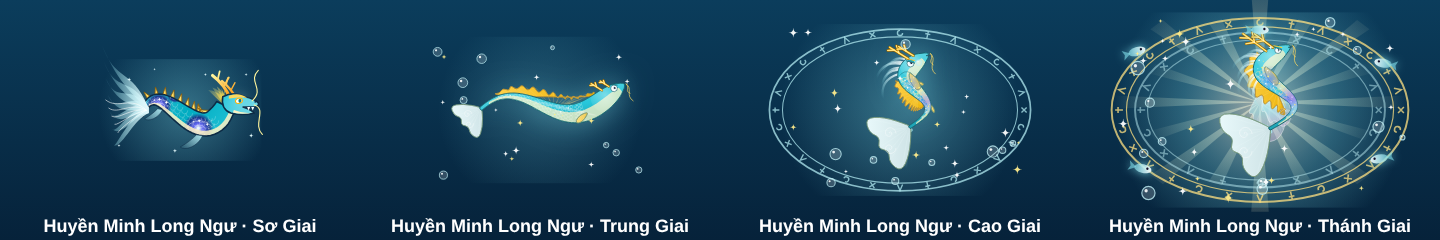
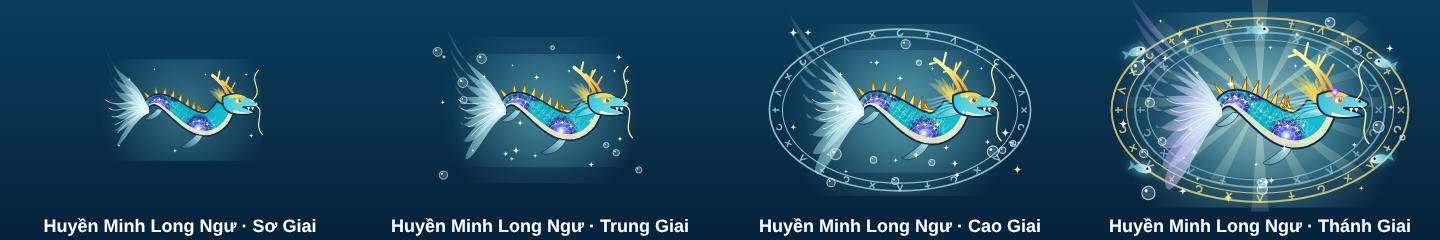
v0.33.1: nút câu cá to hơn + Túi đồ; chọn tất cả trừ Boss; Huyền Minh thanh thoát hơn
Claude-Session: https://claude.ai/code/session_016ef3etzcgqXcHsmUykJPfu

diff --git a/apps/game-client/src/art/MythicArt.ts b/apps/game-client/src/art/MythicArt.ts
@@ -38,7 +38,7 @@ function star(ctx: CanvasRenderingContext2D, x: number, y: number, r: number, co
 function drawHuyenMinhLongNgu(ctx: CanvasRenderingContext2D, stage = 1) {
   // gk = 0..3 theo giai: thân to hơn, vảy rõ, bờm dài, sừng lớn, mắt dữ, đuôi lụa dài, gai lưng cao
   const gk = Math.max(0, Math.min(3, stage - 1));
-  const fit = [1, 0.88, 0.78, 0.7][gk]!;
+  const fit = [1, 0.92, 0.85, 0.8][gk]!;
   ctx.save();
   ctx.translate(176, 112);
   ctx.scale(fit, fit);
@@ -68,7 +68,7 @@ function drawHuyenMinhLongNgu(ctx: CanvasRenderingContext2D, stage = 1) {
     const dy = q.y - r.y;
     const len = Math.hypot(dx, dy) || 1;
     // thân thon ở đuôi, dày dần về cổ
-    const w = (3 + 20 * Math.sin(Math.min(1, t * 1.15) * Math.PI * 0.5) - (t > 0.92 ? (t - 0.92) * 40 : 0)) * (1 + 0.14 * gk);
+    const w = (3 + 20 * Math.sin(Math.min(1, t * 1.15) * Math.PI * 0.5) - (t > 0.92 ? (t - 0.92) * 40 : 0)) * (1 + 0.07 * gk);
     // pháp tuyến hướng LÊN (phía lưng)
     pts.push({ p, n: { x: dy / len, y: -dx / len }, w });
   }
@@ -79,7 +79,7 @@ function drawHuyenMinhLongNgu(ctx: CanvasRenderingContext2D, stage = 1) {
   for (let i = 4; i < N - 2; i += 3) {
     const { p, n, w } = pts[i]!;
     const back = pts[Math.max(0, i - 2)]!.p;
-    const sp = 14 * (1 + 0.4 * gk) * (gk >= 2 ? 1 + 0.25 * Math.sin((i / N) * Math.PI) : 1);
+    const sp = 14 * (1 + 0.18 * gk);
     const tip = { x: p.x + n.x * (w + sp) + (back.x - p.x) * 1.2, y: p.y + n.y * (w + sp) + (back.y - p.y) * 1.2 };
     const g = ctx.createLinearGradient(p.x, p.y, tip.x, tip.y);
     g.addColorStop(0, "#ffb300");
@@ -166,13 +166,14 @@ function drawHuyenMinhLongNgu(ctx: CanvasRenderingContext2D, stage = 1) {
   if (gk >= 1) {
     ctx.save();
     ctx.clip(body);
-    ctx.strokeStyle = gk >= 2 ? "rgba(255,224,130,0.9)" : "rgba(255,255,255,0.55)";
-    ctx.lineWidth = gk >= 2 ? 1.8 : 1.4;
-    for (let i = 3; i < N - 3; i += gk >= 2 ? 1 : 2) {
+    // vảy ánh nhẹ (chỉ nửa lưng) – để lộ dải ngân hà trên thân
+    ctx.strokeStyle = gk >= 2 ? "rgba(255,248,200,0.45)" : "rgba(224,247,250,0.35)";
+    ctx.lineWidth = 1.1;
+    for (let i = 4; i < N - 4; i += 2) {
       const { p, n, w } = pts[i]!;
       const ang = Math.atan2(-n.x, n.y);
-      for (let j = -2; j <= 2; j++) {
-        const off = (j + (i % 2 ? 0.5 : 0)) * w * 0.38;
+      for (let j = 0; j <= 2; j++) {
+        const off = (j + (i % 4 ? 0.5 : 0)) * w * 0.3;
         ctx.beginPath();
         ctx.arc(p.x + n.x * off, p.y + n.y * off, w * 0.26, ang - Math.PI / 2 + Math.PI, ang + Math.PI / 2 + Math.PI);
         ctx.stroke();
@@ -187,8 +188,8 @@ function drawHuyenMinhLongNgu(ctx: CanvasRenderingContext2D, stage = 1) {
   const t0 = pts[0]!.p;
   const t3 = pts[4]!.p;
   const tail = { x: (t0.x + t3.x) / 2 + 4, y: (t0.y + t3.y) / 2 };
-  const strands = 7 + gk * 2;
-  const tl = 1 + 0.35 * gk;
+  const strands = 7 + gk;
+  const tl = 1 + 0.22 * gk;
   for (let k = 0; k < strands; k++) {
     const g = ctx.createLinearGradient(tail.x, tail.y, tail.x - 90 * tl, tail.y);
     g.addColorStop(0, "rgba(224,247,250,0.95)");
@@ -233,29 +234,30 @@ function drawHuyenMinhLongNgu(ctx: CanvasRenderingContext2D, stage = 1) {
   // --- đầu rồng
   const H = { x: 262, y: 88 };
   // bờm vàng (lửa) sau đầu – dài & dày dần theo giai
-  const mk = 1 + 0.45 * gk;
-  if (gk >= 2) {
+  const mk = 1 + 0.15 * gk;
+  if (gk >= 1) {
     // Cao Giai+: bờm tóc lụa trắng-xanh bay dài sau gáy
-    for (let k = 0; k < 6 + gk * 2; k++) {
-      const a2 = -2.4 + k * 0.22;
-      const g = ctx.createLinearGradient(H.x, H.y, H.x - 70 * mk, H.y);
-      g.addColorStop(0, "rgba(255,255,255,0.95)");
-      g.addColorStop(1, "rgba(128,222,234,0)");
+    // bờm lụa mềm bay về sau (dài dần theo giai)
+    const ml = 40 + 18 * gk;
+    for (let k = 0; k < 3 + gk; k++) {
+      const g = ctx.createLinearGradient(H.x, H.y, H.x - ml, H.y);
+      g.addColorStop(0, "rgba(255,255,255,0.8)");
+      g.addColorStop(1, "rgba(178,235,242,0)");
       ctx.strokeStyle = g;
-      ctx.lineWidth = 5;
+      ctx.lineWidth = 3;
       ctx.beginPath();
-      ctx.moveTo(H.x - 8, H.y - 6);
-      ctx.quadraticCurveTo(H.x - 30 * mk, H.y + Math.sin(a2) * 40, H.x - 60 * mk + Math.cos(a2) * 10, H.y + Math.sin(a2) * 30 * mk + 20);
+      ctx.moveTo(H.x - 8, H.y - 8 + k * 4);
+      ctx.bezierCurveTo(H.x - ml * 0.4, H.y - 24 + k * 6, H.x - ml * 0.7, H.y + 4 + k * 5, H.x - ml, H.y - 10 + k * 9);
       ctx.stroke();
     }
   }
-  for (let k = 0; k < 6 + gk * 2; k++) {
+  for (let k = 0; k < 6; k++) {
     const g = ctx.createLinearGradient(H.x, H.y, H.x - 40 * mk, H.y - 30 * mk);
     g.addColorStop(0, "#ffca28");
     g.addColorStop(1, "rgba(255,241,118,0.2)");
     ctx.fillStyle = g;
     ctx.beginPath();
-    const a = -2.2 + k * (1.9 / (6 + gk * 2));
+    const a = -2.2 + k * 0.32;
     ctx.moveTo(H.x - 6, H.y - 4);
     ctx.quadraticCurveTo(H.x - 24 * mk + Math.cos(a) * 8, H.y - 6 + Math.sin(a) * 26 * mk, H.x - 30 * mk + Math.cos(a) * 28 * mk, H.y + Math.sin(a) * 34 * mk);
     ctx.quadraticCurveTo(H.x - 16, H.y + 4, H.x - 4, H.y + 8);
@@ -263,60 +265,55 @@ function drawHuyenMinhLongNgu(ctx: CanvasRenderingContext2D, stage = 1) {
     ctx.fill();
   }
   // sừng vàng phân nhánh
-  const hornK = [1, 1.3, 1.65, 2][gk]!;
+  const hornK = [1, 1.15, 1.3, 1.45][gk]!;
   for (const [dx, sc0] of [[-4, 1], [8, 0.8]] as const) {
     const sc = sc0 * hornK;
     const g = ctx.createLinearGradient(H.x, H.y - 10, H.x - 30, H.y - 60);
     g.addColorStop(0, "#ff8f00");
     g.addColorStop(1, "#fff59d");
     ctx.strokeStyle = g;
-    ctx.lineWidth = 6 * sc;
+    ctx.lineWidth = 6 * sc0;
     ctx.beginPath();
     ctx.moveTo(H.x + dx, H.y - 12);
     ctx.quadraticCurveTo(H.x + dx - 10, H.y - 38 * sc, H.x + dx - 34 * sc, H.y - 56 * sc);
     ctx.stroke();
-    ctx.lineWidth = 3.5 * sc;
+    ctx.lineWidth = 3.5 * sc0;
     ctx.beginPath();
     ctx.moveTo(H.x + dx - 12 * sc, H.y - 34 * sc);
     ctx.lineTo(H.x + dx - 2, H.y - 52 * sc);
     ctx.moveTo(H.x + dx - 24 * sc, H.y - 47 * sc);
     ctx.lineTo(H.x + dx - 20 * sc, H.y - 64 * sc);
     if (gk >= 2) {
-      // nhánh sừng thêm
+      // thêm 1 nhánh sừng thanh mảnh
       ctx.moveTo(H.x + dx - 30 * sc, H.y - 53 * sc);
-      ctx.lineTo(H.x + dx - 44 * sc, H.y - 52 * sc);
-      ctx.moveTo(H.x + dx - 6 * sc, H.y - 24 * sc);
-      ctx.lineTo(H.x + dx + 6 * sc, H.y - 34 * sc);
+      ctx.lineTo(H.x + dx - 40 * sc, H.y - 50 * sc);
     }
     ctx.stroke();
   }
   // vây má nhọn sau hàm (Trung Giai+) – đầu trông sắc hơn
   if (gk >= 1) {
-    const cl = 1 + 0.35 * gk;
-    for (const [dy, sz] of [[4, 1], [14, 0.8]] as const) {
-      const g = ctx.createLinearGradient(H.x - 10, H.y + dy, H.x - 40 * cl, H.y + dy + 14);
-      g.addColorStop(0, "#ffd54f");
-      g.addColorStop(1, "rgba(255,241,118,0.3)");
-      ctx.fillStyle = g;
-      ctx.strokeStyle = "#8d5a00";
-      ctx.lineWidth = 1.4;
-      ctx.beginPath();
-      ctx.moveTo(H.x - 6, H.y + dy - 4);
-      ctx.lineTo(H.x - 34 * cl * sz, H.y + dy + 2);
-      ctx.lineTo(H.x - 20 * cl * sz, H.y + dy + 6);
-      ctx.lineTo(H.x - 40 * cl * sz, H.y + dy + 14);
-      ctx.lineTo(H.x - 4, H.y + dy + 8);
-      ctx.closePath();
-      ctx.fill();
-      ctx.stroke();
-    }
+    // vây má trong suốt mềm mại
+    const cl = 1 + 0.15 * gk;
+    const g = ctx.createLinearGradient(H.x - 6, H.y + 8, H.x - 36 * cl, H.y + 22);
+    g.addColorStop(0, "rgba(224,247,250,0.9)");
+    g.addColorStop(1, "rgba(128,222,234,0.15)");
+    ctx.fillStyle = g;
+    ctx.strokeStyle = "rgba(13,43,69,0.5)";
+    ctx.lineWidth = 1.2;
+    ctx.beginPath();
+    ctx.moveTo(H.x - 4, H.y + 6);
+    ctx.bezierCurveTo(H.x - 16 * cl, H.y + 4, H.x - 30 * cl, H.y + 12, H.x - 36 * cl, H.y + 24);
+    ctx.bezierCurveTo(H.x - 22 * cl, H.y + 22, H.x - 12, H.y + 18, H.x - 2, H.y + 14);
+    ctx.closePath();
+    ctx.fill();
+    ctx.stroke();
   }
   // đầu + mõm: mõm dài & nhọn dần theo giai, trán góc cạnh
-  const sn = 1 + 0.16 * gk;
+  const sn = 1 + 0.04 * gk;
   const head = new Path2D();
   head.moveTo(H.x - 18, H.y - 14);
-  head.quadraticCurveTo(H.x + 4, H.y - 26 - gk * 2, H.x + 26, H.y - 14 - gk);
-  head.quadraticCurveTo(H.x + 44 * sn, H.y - 10, H.x + 54 * sn + gk * 4, H.y - 3 + gk);
+  head.quadraticCurveTo(H.x + 4, H.y - 26, H.x + 26, H.y - 14);
+  head.quadraticCurveTo(H.x + 44 * sn, H.y - 10, H.x + 52 * sn, H.y - 2);
   head.quadraticCurveTo(H.x + 54 * sn, H.y + 4, H.x + 46 * sn, H.y + 6);
   head.lineTo(H.x + 22, H.y + 6);
   head.quadraticCurveTo(H.x + 40 * sn, H.y + 12, H.x + 46 * sn, H.y + 18);
@@ -341,11 +338,11 @@ function drawHuyenMinhLongNgu(ctx: CanvasRenderingContext2D, stage = 1) {
   ctx.fill();
   ctx.fillStyle = "#ffffff";
   // nanh dài dần, thêm nanh theo giai
-  const fangs = gk >= 2 ? [H.x + 24, H.x + 32, H.x + 40] : [H.x + 30, H.x + 38];
+  const fangs = [H.x + 30, H.x + 38];
   for (const x of fangs) {
     ctx.beginPath();
     ctx.moveTo(x, H.y + 6);
-    ctx.lineTo(x + 3, H.y + 13 + gk * 2);
+    ctx.lineTo(x + 3, H.y + 13);
     ctx.lineTo(x + 6, H.y + 6);
     ctx.fill();
   }
@@ -358,29 +355,29 @@ function drawHuyenMinhLongNgu(ctx: CanvasRenderingContext2D, stage = 1) {
   ctx.closePath();
   ctx.fill();
   // mắt phát sáng – Trung Giai mống vàng, Cao Giai đồng tử dọc + mày xếch, Thánh Giai rực sáng
-  ctx.shadowColor = gk >= 2 ? "#ffd54f" : "#e0f7fa";
-  ctx.shadowBlur = 12 + gk * 6;
-  ctx.fillStyle = gk >= 1 ? "#fff59d" : "#ffffff";
+  ctx.shadowColor = gk >= 3 ? "#ea80fc" : "#e0f7fa";
+  ctx.shadowBlur = 12 + gk * 3;
+  ctx.fillStyle = "#ffffff";
   ctx.beginPath();
-  ctx.ellipse(H.x + 14, H.y - 6, 7, gk >= 2 ? 4 : 5, -0.2, 0, Math.PI * 2);
+  ctx.ellipse(H.x + 14, H.y - 6, 7, 5, -0.2, 0, Math.PI * 2);
   ctx.fill();
   ctx.shadowBlur = 0;
-  ctx.fillStyle = gk >= 1 ? "#e65100" : "#00838f";
+  // mống mắt: ngọc lam → lam ánh tím (Cao Giai) → tím ngân hà (Thánh Giai)
+  ctx.fillStyle = ["#00838f", "#00838f", "#3949ab", "#7c4dff"][gk]!;
   ctx.beginPath();
-  ctx.ellipse(H.x + 16, H.y - 6, gk >= 2 ? 1.4 : 3, 4, 0, 0, Math.PI * 2);
+  ctx.ellipse(H.x + 16, H.y - 6, 3, 4, 0, 0, Math.PI * 2);
   ctx.fill();
-  if (gk >= 1) {
-    // gờ mày xếch có gai (Trung Giai: gờ; Cao Giai+: gai mày nhọn vểnh ra sau)
-    ctx.fillStyle = "#ffb300";
-    ctx.strokeStyle = "#8d5a00";
-    ctx.lineWidth = 1.2;
+  ctx.fillStyle = "#ffffff";
+  ctx.beginPath();
+  ctx.arc(H.x + 17, H.y - 8, 1.2, 0, Math.PI * 2);
+  ctx.fill();
+  if (gk >= 2) {
+    // nét mày vàng mảnh, thanh tú
+    ctx.strokeStyle = "#ffd54f";
+    ctx.lineWidth = 2;
     ctx.beginPath();
-    ctx.moveTo(H.x + 26, H.y - 9);
-    ctx.lineTo(H.x + 4, H.y - 16);
-    ctx.lineTo(H.x - 6 - gk * 6, H.y - 22 - gk * 4);
-    ctx.lineTo(H.x + 6, H.y - 12);
-    ctx.closePath();
-    ctx.fill();
+    ctx.moveTo(H.x + 4, H.y - 14);
+    ctx.quadraticCurveTo(H.x + 14, H.y - 16, H.x + 24, H.y - 11);
     ctx.stroke();
   }
   ctx.strokeStyle = "#ffb300";
@@ -407,7 +404,7 @@ function drawHuyenMinhLongNgu(ctx: CanvasRenderingContext2D, stage = 1) {
   for (const [x, y, r] of [[60, 40, 4], [300, 150, 5], [210, 30, 3], [40, 170, 3], [290, 30, 3], [150, 180, 4], [110, 20, 2.5]] as const) star(ctx, x, y, r, "#e0f7fa");
   if (gk >= 3) {
     // Thánh Giai: ngọc thần trên trán
-    const jg = ctx.createRadialGradient(H.x + 8, H.y - 18, 1, H.x + 8, H.y - 18, 8);
+    const jg = ctx.createRadialGradient(H.x + 8, H.y - 18, 1, H.x + 8, H.y - 18, 6);
     jg.addColorStop(0, "#ffffff");
     jg.addColorStop(0.5, "#ea80fc");
     jg.addColorStop(1, "#7c4dff");

diff --git a/apps/game-client/src/scenes/FishingScene.ts b/apps/game-client/src/scenes/FishingScene.ts
@@ -188,18 +188,28 @@ export class FishingScene extends Phaser.Scene {
 
     // UI cố định
     const top = this.add.graphics();
-    top.fillStyle(0x071a33, 0.7).fillRoundedRect(8, 8, 420, 60, 16);
-    new Button(this, 60, 38, 92, 46, "← Về", { color: COLORS.blue, fontSize: 20, onClick: () => this.leave() });
-    txt(this, 116, 38, this.zone.name, 24, { color: COLORS.textGold }).setOrigin(0, 0.5);
+    top.fillStyle(0x071a33, 0.7).fillRoundedRect(8, 8, 410, 76, 18);
+    // nút to cho dễ bấm trên điện thoại
+    new Button(this, 76, 46, 128, 66, "← Về", { color: COLORS.blue, fontSize: 26, onClick: () => this.leave() }).setDepth(45);
+    txt(this, 150, 46, this.zone.name, 22, { color: COLORS.textGold, wrap: 260 }).setOrigin(0, 0.5);
     const rod = ROD_BY_ID.get(s.selectedRodId)!;
-    txt(this, 16, 80, `${char.name} · ${rod.name}`, 16, { weight: "700", color: COLORS.textDim });
-    this.usesT = txt(this, 330, 80, "", 16, { weight: "700", color: "#b2ebf2" }).setDepth(50);
+    txt(this, 16, 98, `${char.name} · ${rod.name}`, 16, { weight: "700", color: COLORS.textDim });
+    this.usesT = txt(this, 330, 98, "", 16, { weight: "700", color: "#b2ebf2" }).setDepth(50);
     this.refreshUses();
-    this.huntLabel = txt(this, 16, 104, "", 18, { color: "#ff8a80" });
+    // Túi đồ: xem / bán cá ngay mà không rời khu câu (Về từ Kho Cá quay lại đây)
+    new Button(this, 1186, 46, 168, 66, "🎒 Túi đồ", {
+      color: COLORS.orange,
+      fontSize: 24,
+      onClick: () => {
+        if (this.session) return toast(this, "Đang câu – hãy câu xong rồi mở túi đồ");
+        goTo(this, "Inventory", { back: { scene: "Fishing", data: { zoneId: this.zone.id } } });
+      },
+    }).setDepth(45);
+    this.huntLabel = txt(this, 16, 122, "", 18, { color: "#ff8a80" });
     this.refreshHuntLabel();
 
     this.hint = txt(this, 640, 640, "", 30, { align: "center" }).setOrigin(0.5).setDepth(50);
-    this.eventLabel = txt(this, 16, 132, "", 18, { color: "#ffe082" }).setDepth(50);
+    this.eventLabel = txt(this, 16, 148, "", 18, { color: "#ffe082" }).setDepth(50);
     this.castEvent = null;
     this.castEventLeft = 0;
     this.alertT = txt(this, 640, 220, "", 56, { align: "center", stroke: 10 }).setOrigin(0.5).setDepth(60).setAlpha(0);
@@ -217,7 +227,7 @@ export class FishingScene extends Phaser.Scene {
     }).start();
     this.toIdle();
     this.auto = false;
-    this.autoBtn = new Button(this, 540, 38, 200, 46, "", { color: COLORS.purple, fontSize: 18, onClick: () => this.toggleAuto() }).setDepth(45);
+    this.autoBtn = new Button(this, 560, 46, 250, 66, "", { color: COLORS.purple, fontSize: 23, onClick: () => this.toggleAuto() }).setDepth(45);
     this.refreshAutoBtn();
 
     const onLevel = (lvl: number) => {

diff --git a/apps/game-client/src/scenes/InventoryScene.ts b/apps/game-client/src/scenes/InventoryScene.ts
@@ -41,8 +41,12 @@ export class InventoryScene extends Phaser.Scene {
     super("Inventory");
   }
 
-  init(data: { tab?: "bag" | "collection" }) {
+  /** Mở từ màn câu cá → bấm Về quay lại đúng khu câu. */
+  private back: { scene: string; data?: object } = { scene: "Hub" };
+
+  init(data: { tab?: "bag" | "collection"; back?: { scene: string; data?: object } }) {
     this.tab = data.tab ?? "bag";
+    this.back = data.back ?? { scene: "Hub" };
     this.selectMode = false;
     this.picked = new Set();
     this.confirmArmed = null;
@@ -54,7 +58,7 @@ export class InventoryScene extends Phaser.Scene {
     this.input.enabled = true;
     fadeIn(this);
     menuBackdrop(this);
-    new TopBar(this, { title: "Kho Cá", onBack: () => goTo(this, "Hub") });
+    new TopBar(this, { title: "Kho Cá", onBack: () => goTo(this, this.back.scene, this.back.data) });
     this.tabBtns = [
       new Button(this, 110, 116, 190, 50, "🐟 Kho Cá", { color: COLORS.blue, fontSize: 22, onClick: () => this.switchTab("bag") }),
       new Button(this, 310, 116, 190, 50, "📖 Bộ Sưu Tập", { color: COLORS.blue, fontSize: 22, onClick: () => this.switchTab("collection") }),
@@ -229,6 +233,18 @@ export class InventoryScene extends Phaser.Scene {
       all.filter((o) => !o.locked && FISH_BY_ID.get(o.fishId)!.rarity === "common").forEach((o) => this.picked.add(o.uid)),
     );
     quick(1154, 402, "Bỏ chọn hết", () => this.picked.clear());
+    // chọn tất cả TRỪ cá Boss & Thần Thoại (giữ lại cá quý nhất)
+    d.add(
+      new Button(this, 1058, 458, 378, 46, "Chọn tất cả trừ Boss trở lên", {
+        color: COLORS.orange,
+        fontSize: 17,
+        onClick: () => {
+          this.confirmArmed = null;
+          all.filter((o) => !o.locked && !["boss", "mythic"].includes(FISH_BY_ID.get(o.fishId)!.rarity)).forEach((o) => this.picked.add(o.uid));
+          this.render();
+        },
+      }),
+    );
     const act = (kind: "sell" | "decompose") => {
       const uids = [...this.picked];
       if (!uids.length) return toast(this, "Hãy chọn ít nhất 1 con cá");

diff --git a/apps/game-client/src/ui/fishingChat.ts b/apps/game-client/src/ui/fishingChat.ts
@@ -37,7 +37,7 @@ export class FishingChat {
 
   start() {
     // nút luôn hiện; chưa kết nối tài khoản thì bấm vào sẽ báo lý do
-    this.btn = new Button(this.scene, 740, 38, 150, 46, "💬 Chat", { color: COLORS.blue, fontSize: 18, onClick: () => this.toggle() }).setDepth(45);
+    this.btn = new Button(this.scene, 828, 46, 200, 66, "💬 Chat", { color: COLORS.blue, fontSize: 24, onClick: () => this.toggle() }).setDepth(45);
     if (!GameState.online) return;
     void this.poll();
     this.timer = window.setInterval(() => void this.poll(), POLL_MS);

diff --git a/apps/game-client/src/scenes/HubScene.ts b/apps/game-client/src/scenes/HubScene.ts
@@ -347,6 +347,6 @@ export class HubScene extends Phaser.Scene {
         },
       }),
     );
-    m.root.add(txt(this, m.x + 40, m.y + 460, `Mã người chơi: ${s.playerId}\nPhiên bản 0.33.0 · Giai đoạn 2–5`, 16, { weight: "500", color: COLORS.textDim }));
+    m.root.add(txt(this, m.x + 40, m.y + 460, `Mã người chơi: ${s.playerId}\nPhiên bản 0.33.1 · Giai đoạn 2–5`, 16, { weight: "500", color: COLORS.textDim }));
   }
 }

diff --git a/CHANGELOG.md b/CHANGELOG.md
@@ -1,5 +1,11 @@
 # Changelog
 
+## [0.33.1] – 2026-11-22 – Nút câu cá to hơn, Túi đồ, chọn tất cả trừ Boss
+### Thay đổi
+- Màn câu cá: nút **← Về / Câu tự động / Chat** to hơn (cao 66px, chữ 23–26) cho dễ bấm trên điện thoại; thêm nút **🎒 Túi đồ** (mở Kho Cá, bấm Về quay lại đúng khu đang câu; đang kéo cá thì báo câu xong trước).
+- Kho Cá → Chọn nhiều: thêm **"Chọn tất cả trừ Boss trở lên"** (chọn mọi cá không khoá trừ Boss & Thần Thoại). E2E `tests/e2e/inventory-select.cjs`.
+- Huyền Minh Long Ngư vẽ lại thanh thoát hợp tên: vảy chỉ ánh nhẹ để lộ dải ngân hà, sừng mảnh, mõm giữ dáng tròn, bờm lụa mềm, vây má trong suốt, mày vàng mảnh, mắt ngọc lam → tím ngân hà theo giai.
+
 ## [0.33.0] – 2026-11-22 – Tiến hoá giai đoạn: giữ dáng gốc, mỗi loài một bộ chi tiết riêng
 ### Thay đổi
 - Bỏ kiểu biến mọi loài thành cùng một khuôn (rồng cuộn / cầu gai). Nay **mỗi loài giữ dáng gốc của chính nó** rồi lớn dần qua 4 giai, kèm **bộ chi tiết tiến hoá riêng** chọn theo loài (`evoFeatures`): đồ đầu (sừng nai phân nhánh / sừng nhọn / vương miện pha lê / mào lửa), thân (vảy giáp / gai quanh thân / sọc phát sáng), thêm (bờm bay / mây bông / vây cánh). Vây, đuôi, gai lưng, sừng dài dần; Cao Giai vây lưng màu điểm nhấn; Thánh Giai cánh tiên + thân ngân hà. Test bảo đảm không 2 loài trưởng thành nào trùng dáng.
